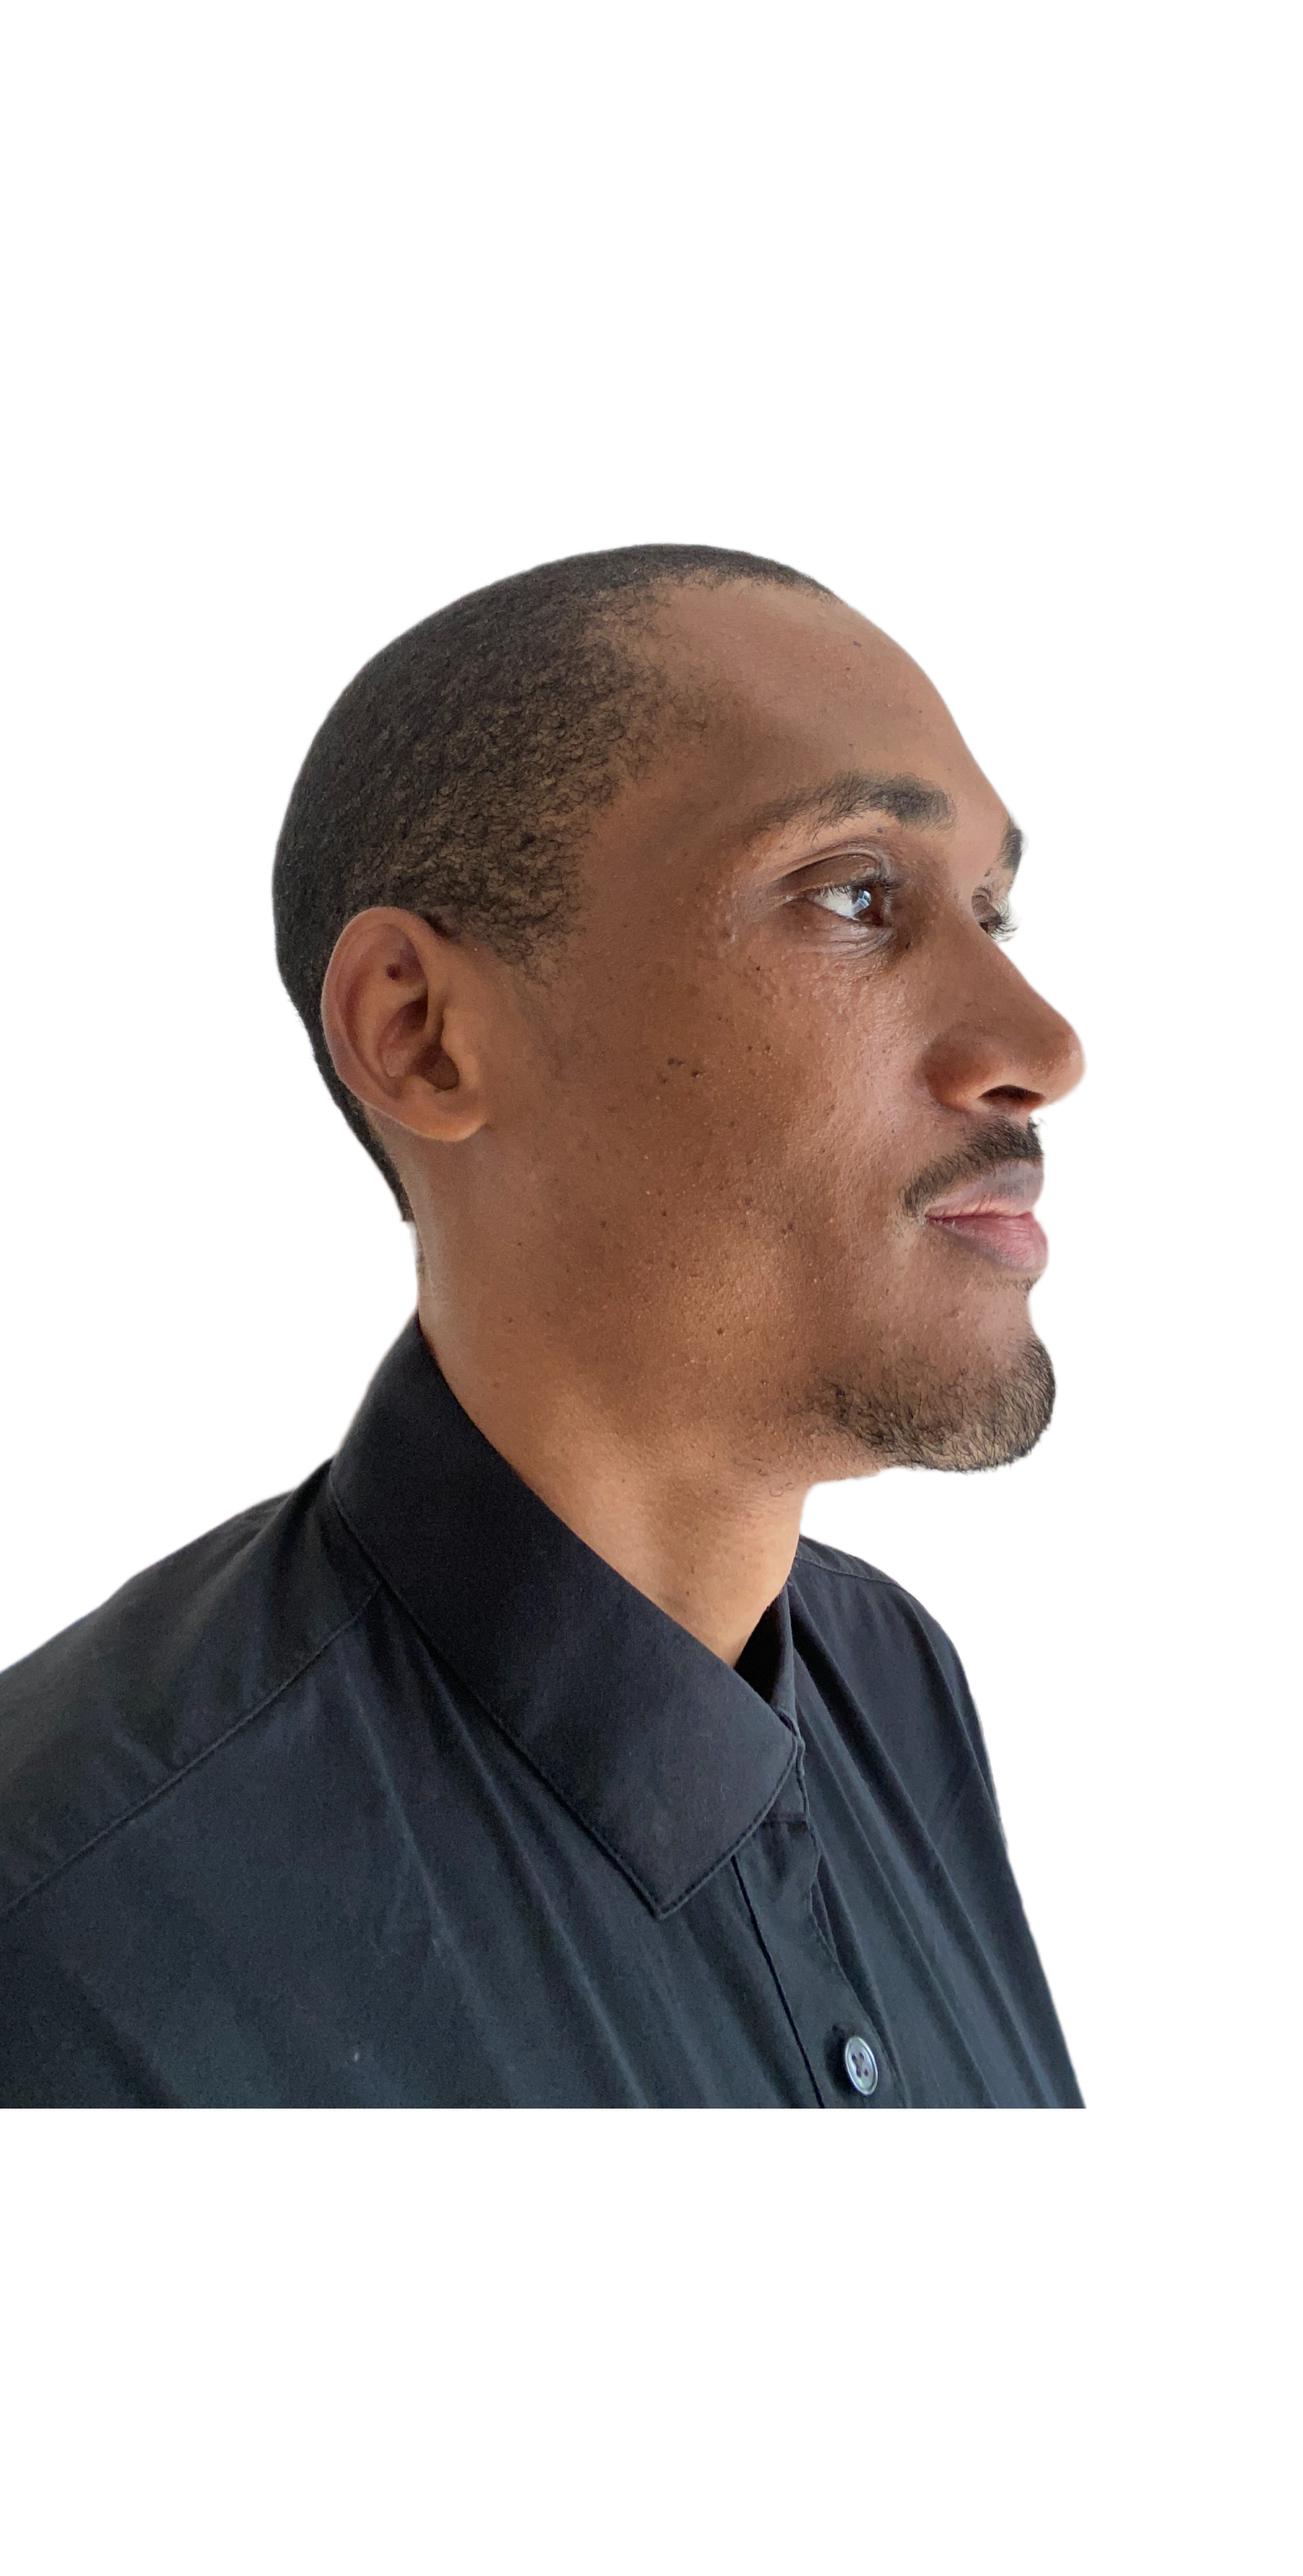
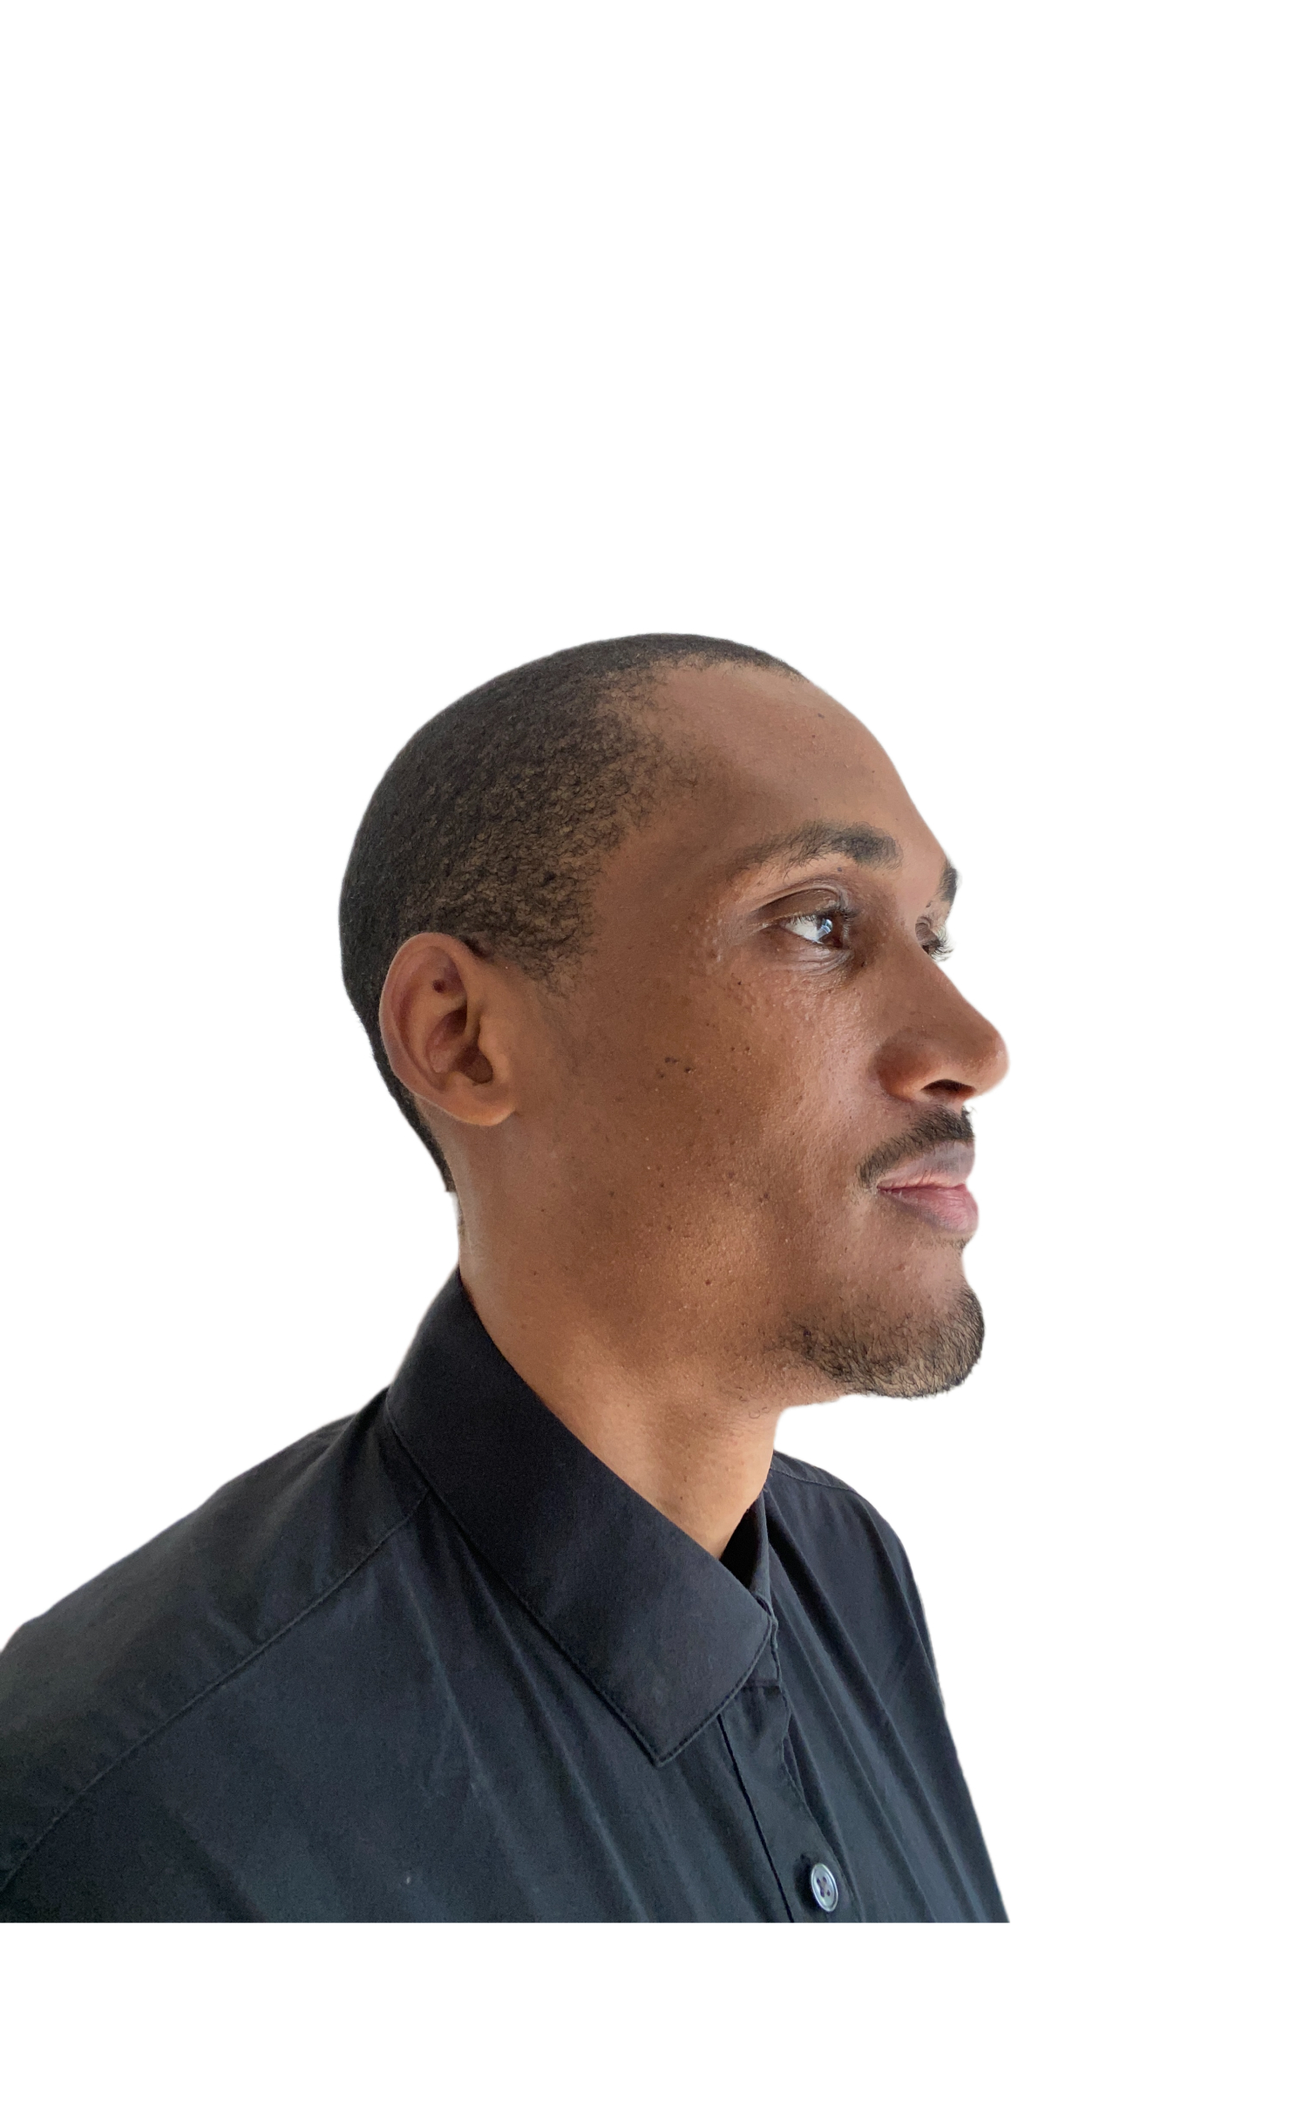
maj images

diff --git a/content/index.md b/content/index.md
@@ -9,10 +9,10 @@ seo:
 
 ---main
 images:
-  - src: /hero-2.png
-    alt: my photo
+  - src: /hero.png
+    alt: Steeven Jacques
   - src: /hero-mobile.jpg
-    alt: my photo
+    alt: Steeven Jacques
 ---
 
 # <Typewriter>Steeven Jacques</Typewriter>
